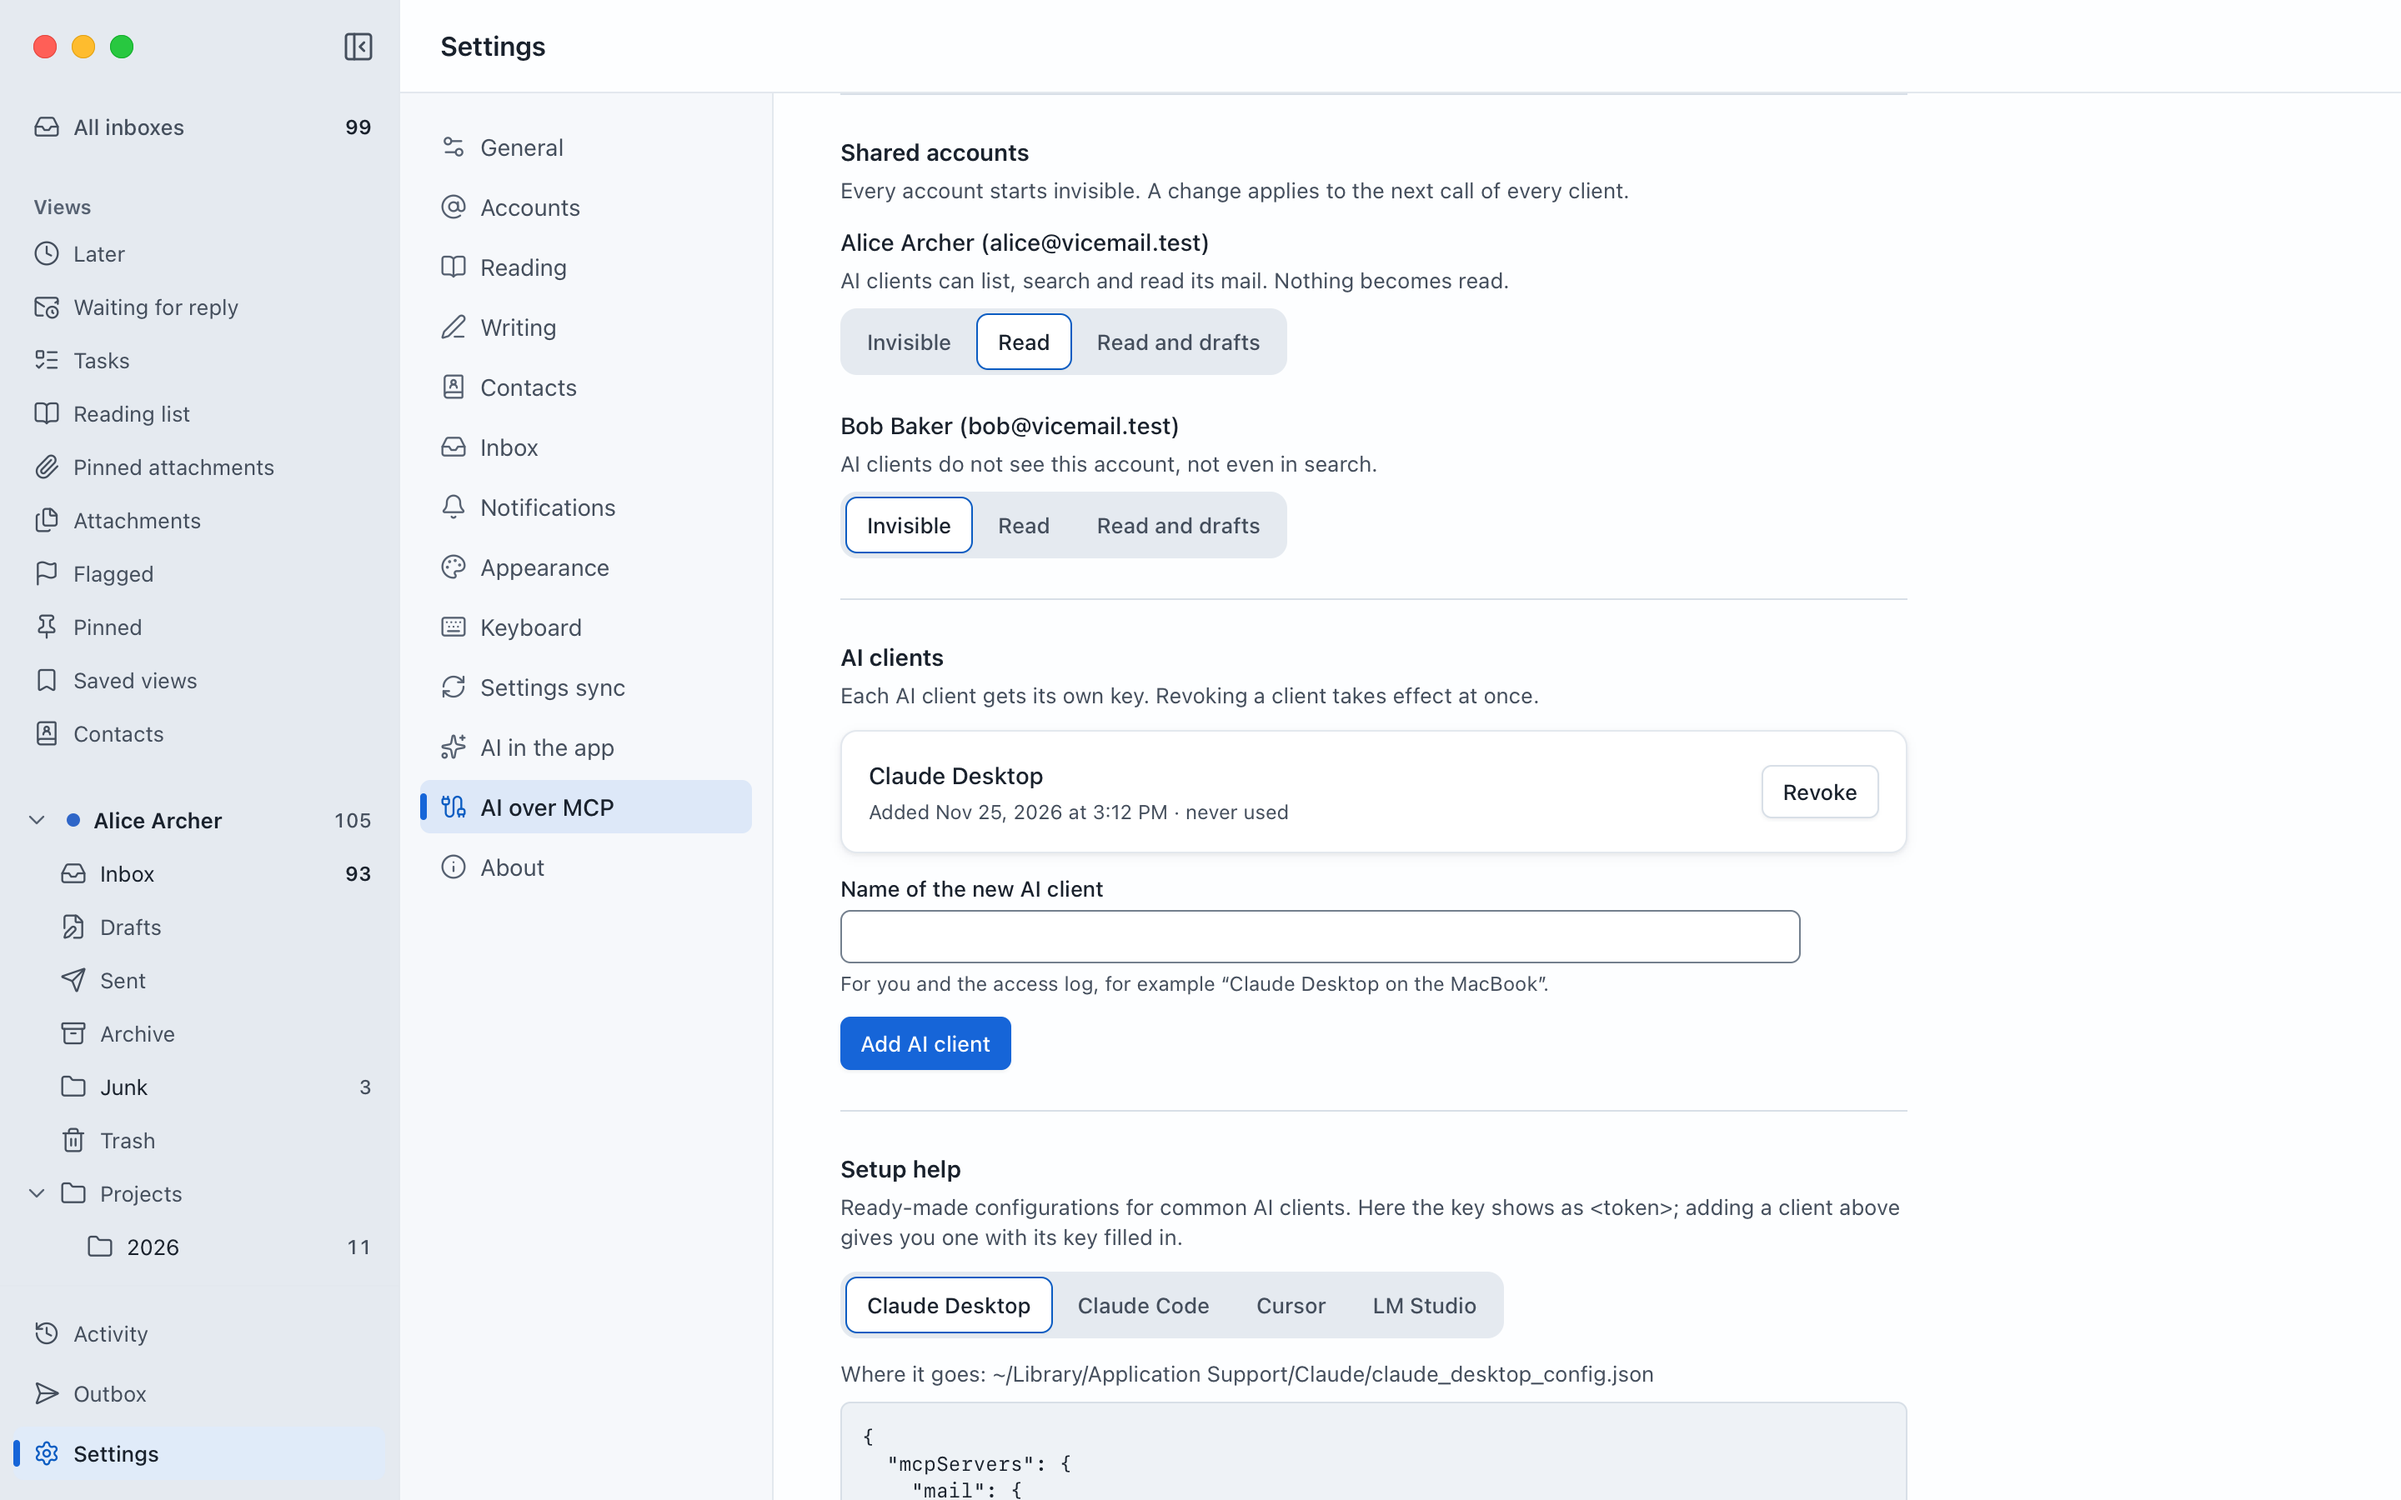
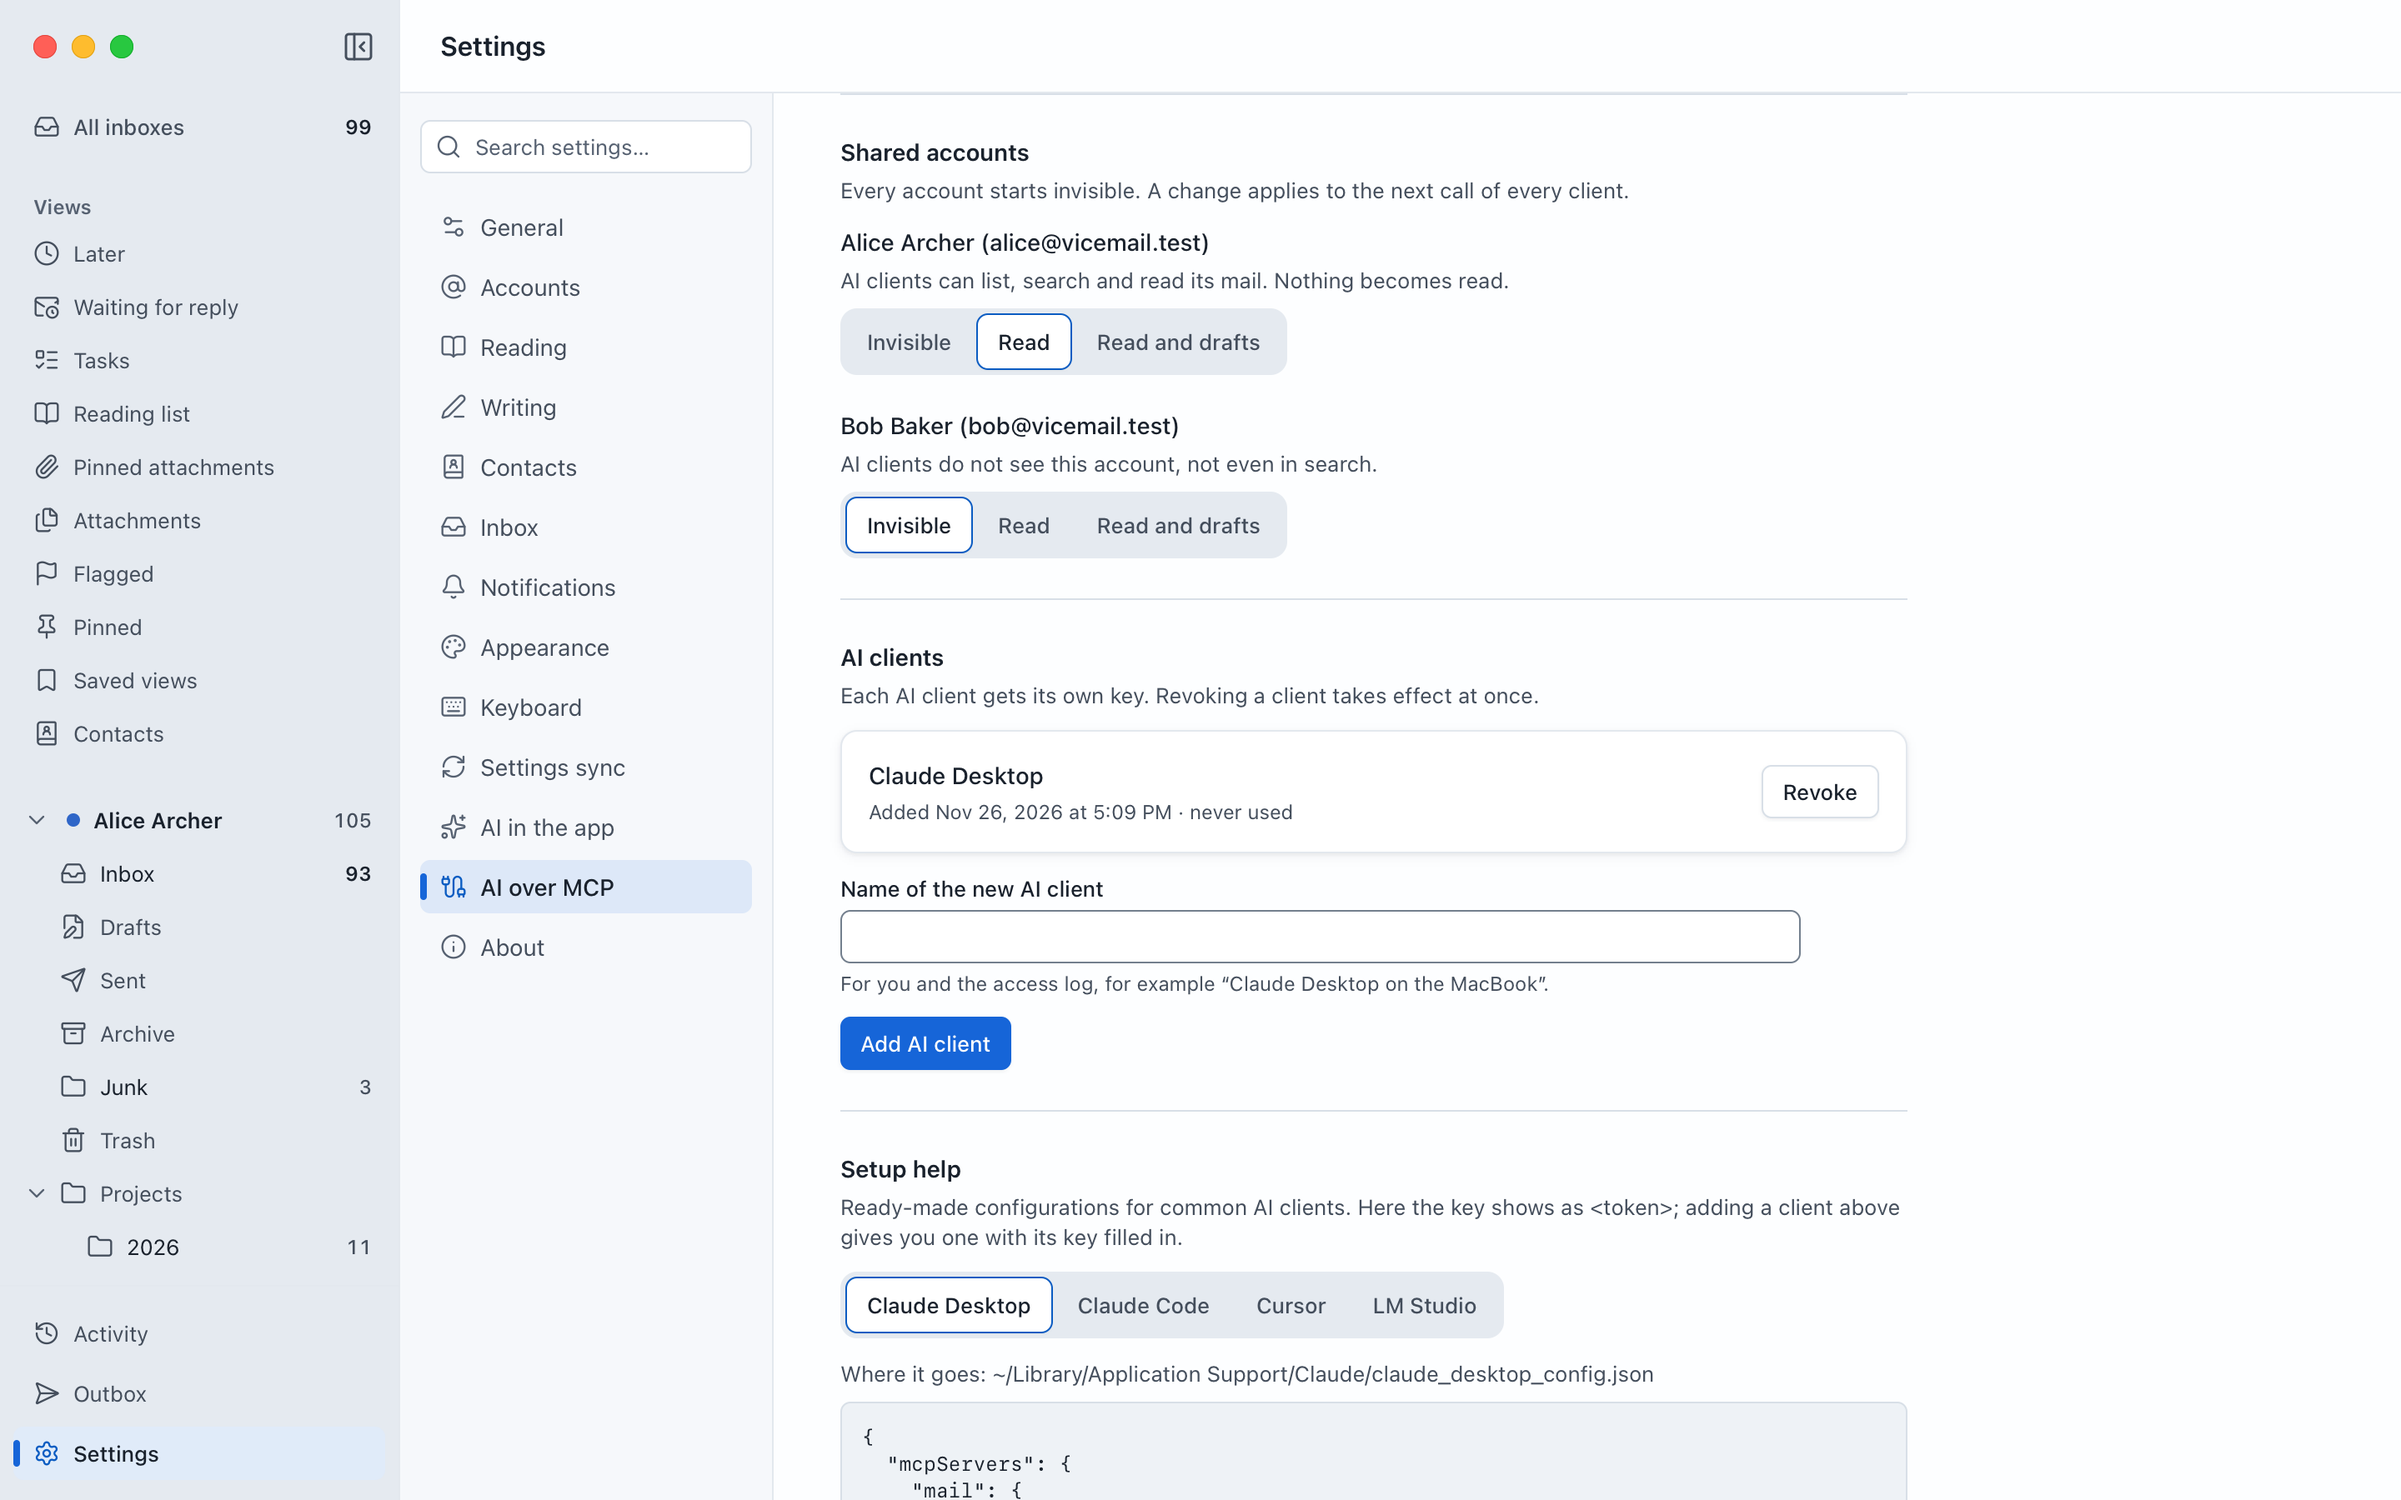
Stage 22 done: results, plan, README pictures for 0.1.3 [skip ci]

Changed region(s): [[0.1562, 0.0933, 0.3125, 0.6533], [0.4688, 0.5289, 0.5312, 0.56]]

diff --git a/docs/stages/22-rueckmeldungen-0-1-2.md b/docs/stages/22-rueckmeldungen-0-1-2.md
@@ -6,7 +6,8 @@ bauen.
 **Anlass:** Test von 0.1.2 am 26.11.2026. Wie in Stufe 21: erst alle Rückmeldungen sammeln,
 gebaut wird erst, wenn der Mensch sagt, dass die Liste vollständig ist.
 
-**Stand:** Liste vollständig („das reicht dann auch erstmal … los bau 0.1.3“, 26.11.2026).
+**Stand:** Fertig am 26.11.2026, ergibt 0.1.3. Liste vollständig („das reicht dann auch erstmal …
+los bau 0.1.3“), danach kamen noch Punkt 11 und 12 dazu.
 Ergibt 0.1.3. Aufteilung: 4+10 (Geheimnisse), 6 (Spamfilter), 5+7 (Suche), 3+8 (Oberfläche),
 danach 1+2 (Konten) und 9 (Windows); je ein Subagent in eigenem Worktree.
 
@@ -190,4 +191,103 @@ Personen melden“, „Ziehen in Finder/Explorer“).
 
 ## Ergebnis
 
-Noch offen; die Liste wird gesammelt.
+Erledigt am 26.11.2026: alle zwölf Punkte, ergibt 0.1.3. Sechs Subagenten in eigenen Worktrees
+(Suche 5+7, Oberfläche 3+8, Geheimnisse 4+10, Spamfilter 6, Windows 9+11, Konten 1+2+12),
+zusammengeführt auf `main`. Entscheidungen 0072 (keine Bilder), 0073 (Einstellungen
+durchsuchen), 0074 (Kontakte in der Suche, Suche im Wort), 0075 (ein Schlüsselbund-Eintrag),
+0076 (Passwörter übernehmen), 0077 (Spamfilter), 0078 (Reihenfolge und Namen der Konten), 0079
+(Windows-11-Optik), 0080 (Ziffern der Zahl am Symbol), 0081 (Ziehen aus jeder Liste). Migrationen
+0028 (keine Kontaktbilder), 0029 (Trigramm-Index), 0031 (Spamfilter), 0032 (Reihenfolge der
+Konten); 0030 blieb frei. Neue Abhängigkeit: keine (skrifa war schon über hayro im Build); neue
+Schrift: Teilmenge von Selawik Semibold (OFL) als „Badge Digits“.
+
+- **1:** Spalte `account.position` (leer bis zur ersten Änderung, die bisherige Reihenfolge
+  bleibt). Ziehen der Kontoüberschrift links, „Nach oben/unten“ im Kontomenü, Alt+Pfeil, Pfeile
+  in Einstellungen → Konten. Überall dieselbe Reihenfolge; im Sync als Feld `position` (jede
+  Änderung vergibt allen Konten neue, höhere Positionen, damit die neuere Reihenfolge als Ganzes
+  gewinnt).
+- **2:** `account.display_name` ist jetzt der Name in den Listen, Doppelklick, F2 oder
+  „Umbenennen“; leer zeigt die Adresse. Nichts Ausgehendes liest ihn mehr (KI-Antworten nehmen den
+  Absendernamen der Identität). Neue Konten starten ohne Listennamen.
+- **3:** Alle Bilder und Initialen entfernt (Liste, Lesebereich, Composer, Kontakte, Popup,
+  schmale Leiste, Einstellungen), dazu die Kontaktbilder aus Stufe 17 samt Befehlen, Hilfsprozess-
+  Modus und Sync-Art (alte Datensätze anderer Geräte werden still ignoriert). Zeilen beginnen mit
+  einer 16-px-Spalte für Ungelesen-Punkt bzw. Kästchen. In gemischten Listen bleibt die
+  Kontobeschriftung (Punkt und Name) auch beim Überfahren sichtbar (ein Punkt vor dem Absender war
+  vom Ungelesen-Punkt nicht zu unterscheiden). Schmale Leiste: Konten als Farbpunkte mit Namen.
+- **4:** Auf macOS ein Tresor-Eintrag in Generationen (`vault`, `vault.2`, …: neu schreiben,
+  zurücklesen, dann ältere löschen). Übernahme der alten Einträge beim Start nach den Namen aus der
+  Datenbank, Rückfall auf alte Einträge beim Lesen. Windows unverändert (ein Eintrag je
+  Geheimnis).
+- **5:** Bis zu drei Kontakte oben in der Suche (Name, Adresse, Domain, auch per Anfang); Auswahl
+  setzt den neuen Filter `contact:`/`kontakt:` (alle Adressen des Kontakts in Von/An/Cc, über alle
+  Konten).
+- **6:** Robinson/Fisher wie SpamBayes, Tokens als 64-Bit-Hashes (keine Wörter aus Mails in der
+  Datenbank), Klasse Gerät, nur der Schalter wird abgeglichen. Greift ab 0,99 und erst nach 50
+  Spam- und 200 anderen Mails. Nie Spam: eigene Adressen, angeschriebene Kontakte, Antworten auf
+  eigene Mails, Absender mit erlaubten Bildern, wichtige Absender. Gemessen am
+  SpamAssassin-Korpus (10-fach Kreuzvalidierung): 0,05 % falsch als Spam, 8,8 % Spam verpasst
+  (`docs/testing/spam-filter.md`).
+- **7:** Zweiter FTS5-Index `message_fts_tri` (Trigramme) über alle Spalten einschließlich Text.
+  Gemessen bei 100.000 Mails: Datenbank 119 → 272 MB, langsamste erste Treffer 20,7 → 29 ms
+  (Ziel 200 ms), Speichern von Bodies 2.213 → 916 je Sekunde. Ab 3 Zeichen findet ein Begriff
+  ohne Anführungszeichen auch Teile von Wörtern.
+- **8:** Suchfeld über der Abschnittsliste der Einstellungen (Cmd/Ctrl+F), Index aus denselben
+  i18n-Schlüsseln, die die Zeilen zeigen; ein Test rendert jeden Abschnitt und meldet jede Zeile,
+  die im Index fehlt.
+- **9:** Mica in der Titelleiste aller Fenster (Windows 11), im Hauptfenster auch hinter Leiste
+  und Ordnerspalte; Liste, Lesebereich, Composer, Menüs bleiben deckend. Rückfall ohne
+  Transparenz, vor Build 22000 und mit Kontrastdesign. Native Fenstertasten (Andock-Leiste von
+  Windows). Kontrasttest gegen hellstes/dunkelstes Mica.
+- **10:** Anfrage mit Festlegung auf den Schlüssel → Herausforderung mit Zufallswert vom
+  gebenden Gerät → Schlüssel offenlegen → sechsstelliger Code aus allen drei (Abweichung vom Plan:
+  ein Code nur aus Schlüssel und Anfrage ließe sich mit etwa einer Million Versuchen erzwingen).
+  Nur Konten mit gleichen Servern auf beiden Geräten (0040), keine OAuth-Tokens, Schreiben bleibt
+  aus, privater Schlüssel nur im Speicher, Einträge laufen nach 15 Minuten ab.
+- **11:** Geprüft: `mail-app.exe` und Installer von 0.1.2 enthalten das blaue Symbol. Ziffern
+  jetzt aus Selawik Semibold mit Hinting in genau der Pixelgröße (eigener Scanline-Rasterizer,
+  gleiche Pixel auf jeder Plattform), Vorschaubilder für 100–200 % angesehen. Der Installer
+  meldet Explorer nach Installation und Update das geänderte Symbol (`SHChangeNotify`, auch für
+  angeheftete Verknüpfungen); mit makensis 3.13 in einem kleinen Rahmen übersetzt, nicht in der
+  Vorlage von Tauri.
+- **12:** Ein Befehl `dropMessages` gruppiert die Zeilen: Zeilen des Zielkontos werden
+  verschoben, andere Konten über Kopieren-dann-Entfernen (0033), Zeilen schon im Ziel bleiben.
+  Ablegen verschiebt ohne Frage, Wahltaste/Strg kopiert; „Verschieben nach“ im Menü fragt weiter.
+  Nur lesende Konten lehnen beim Überfahren mit Begründung ab. Ordner klappen nach 700 ms auf,
+  die Spalte scrollt am Rand. Rückgängig nimmt Verschiebungen innerhalb eines Konto zurück; über
+  Konten nur, solange die Kopie noch nicht auf dem Server ist (sagt die Meldung).
+
+**Geprüft:**
+- `scripts/check.sh` grün auf `fc10011` (alle zwölf Punkte zusammengeführt): 1.665 Rust-Tests,
+  4.707 Vitest, Clippy für macOS und Windows, Lizenzen, Advisories.
+- GitHub-CI auf `ed2d186` (Version 0.1.3): `check` grün auf macOS und auf echtem Windows.
+- Server-Tests gegen den lokalen Testserver auf `ed2d186`: 1.777 grün.
+- Desktop: 43 Spec-Dateien (214 Tests) in drei Gesamtläufen je 42/43; jede Spec-Datei war in
+  mindestens einem Gesamtlauf grün (Ausreißer unten). `stage22-ui` und `spacing` danach einzeln
+  grün, `spacing` zweimal.
+- README-Bilder neu erzeugt (ohne Bilder und Initialen).
+- Vorschaubilder der Zahl am Symbol (100–200 %) und Bildschirmfotos aller Stränge angesehen.
+
+**Ungeprüft:**
+- Alles auf einem echten Windows-PC: Mica, Ziffern der Zahl am Symbol, Symbol nach dem Update,
+  Strg zum Kopieren (Prüfliste 22.1–22.4 in `docs/testing/windows-checklist.md`).
+- Wie oft macOS bei einem echten Update fragt (0.1.2 → 0.1.3 und danach), und ob ein neuer Build
+  Tresor-Einträge eines älteren löschen darf.
+- Passwörter übernehmen zwischen zwei echten Geräten; Sync mit einem Gerät auf 0.1.2.
+- Spamfilter mit echten, deutschsprachigen Postfächern; Release-Build-Zeiten.
+- Die echte Zieh-Geste des Systems (die Desktop-Tests lösen die Drag-Ereignisse in der Seite aus).
+- Ein echtes Update über die App.
+- Wackelige Tests:
+  - `comfort::tests::popup::new_mail_shows_as_popup_cards_by_the_same_rules` scheiterte einmal
+    unter hoher Last (danach 7 von 7 grün).
+  - `spacing.e2e.mjs` fand im dritten Gesamtlauf bei 900×600 das Gespräch nicht aufgeklappt
+    (nach einem Neustart des WebDrivers); einzeln zweimal grün.
+- Behoben während der Prüfung:
+  - `stage22-ui` fand in beiden ersten Gesamtläufen Bobs Mail in „Alle Posteingänge“ nicht:
+    frühere Specs legen kurz vorher neuere Mails ab, die Mail fiel aus den zwölf geprüften
+    Zeilen. Sie ist jetzt die neueste (`18f321d`).
+  - Der Server-Test des Spamfilters ließ Mails im Junk des Testservers liegen und brachte damit
+    die Zählung des IMAP-Ordnertests durcheinander (`a39af7d`).
+
+**Wartet auf:** welche Version auf dem Windows-PC lief (Punkt 11); Test von 0.1.3 auf Mac und
+Windows, zuerst ein Update über die App; Prüfliste 22.1–22.4 auf Windows.

diff --git a/docs/PLAN.md b/docs/PLAN.md
@@ -39,7 +39,7 @@ Im Projektordner eine neue Sitzung öffnen und schreiben:
 | 19 | [Thunderbird-Funktionen](stages/19-thunderbird-funktionen.md) | fertig (0.1.1) | Sortieren, Tabellenansicht, Schnellfilter, Quelltext, Umleiten, Als neu, Kontaktgruppen, vCard/mbox, Übernahme aus Thunderbird |
 | 20 | [Erinnern, Anhänge, Tracker, Speicher](stages/20-erinnern-anhaenge-tracker-speicher.md) | fertig (0.1.1) | Anhang-Erinnerung, Erinnern ohne Antwort, Anhänge-Ansicht, Tracker-Schutz sichtbar, Postfach-Speicher |
 | 21 | [Rückmeldungen zu 0.1.1](stages/21-rueckmeldungen-0-1-1.md) | fertig (0.1.2), Punkt 1 wartet auf den Menschen | Rückmeldungen aus dem Test von 0.1.1; ergibt 0.1.2 |
-| 22 | [Rückmeldungen zu 0.1.2](stages/22-rueckmeldungen-0-1-2.md) | in Arbeit (Liste vollständig seit 26.11.) | Konten verschieben und umbenennen, keine Bilder/Initialen, ein Schlüsselbund-Eintrag, Kontakte in der Suche, Spamfilter, Suche im Wort, Einstellungen durchsuchen, Windows-11-Optik, Passwörter übernehmen; ergibt 0.1.3 |
+| 22 | [Rückmeldungen zu 0.1.2](stages/22-rueckmeldungen-0-1-2.md) | fertig (0.1.3) | Konten verschieben und umbenennen, keine Bilder/Initialen, ein Schlüsselbund-Eintrag, Kontakte in der Suche, Spamfilter, Suche im Wort, Einstellungen durchsuchen, Windows-11-Optik, Passwörter übernehmen; ergibt 0.1.3 |
 | 15 | [Veröffentlichung](stages/15-veroeffentlichung.md) | wartet auf Mensch (alles ohne Veröffentlichung fertig) | öffentliches Repo, signierte Builds, Updates |
 
 Status: `offen`, `in Arbeit`, `wartet auf Mensch`, `fertig`.
@@ -108,6 +108,25 @@ Gilt, wenn der Auftrag lautet, die Stufen nacheinander ohne Begleitung abzuarbei
 - Jede Stufe endet mit grünem `scripts/check.sh` und einem Push.
 
 ## Letzter Lauf
+
+**Lauf vom 26.11.2026 (Version 0.1.3).** Der Mensch testete 0.1.2 und sammelte Rückmeldungen
+und Ideen (Stufe 22: Konten verschieben und umbenennen, keine Bilder, ein Schlüsselbund-Eintrag,
+Kontakte in der Suche, Spamfilter, Suche im Wort, Einstellungen durchsuchen, Windows-11-Optik,
+Passwörter übernehmen; während des Baus noch Taskleisten-Symbol/Zahl unter Windows und Ziehen
+aus jeder Liste). Sechs Subagenten in eigenen Worktrees (Build-Ordner als APFS-Klon, damit die
+Platte reicht); ein Nutzungslimit unterbrach drei davon für einige Stunden. Gesamtprüfung:
+`scripts/check.sh` grün auf `fc10011` (1.665 Rust, 4.707 Vitest), GitHub-CI auf macOS und
+Windows grün auf `ed2d186`, Server-Tests 1.777 grün, Desktop 43 Spec-Dateien (zwei wackelige
+Ausreißer, Stufe 22 „Ergebnis“). 0.1.3 als GitHub-Release „Latest“ (findet sich über die App) und
+als Gitea-Release.
+
+**Wartet auf den Menschen (neu):** Update von 0.1.2 auf 0.1.3 über die App (erster echter
+Test des Updaters; auf dem Mac fragt der Schlüsselbund beim ersten Start ein letztes Mal je alten
+Eintrag); welche Version auf dem Windows-PC lief (Stufe 22, Punkt 11); Prüfliste 22.1–22.4 auf
+Windows (Zahl am Symbol, Symbol nach Update, Mica, Rückfall); Sync zwischen Mac und Windows samt
+„Passwörter übernehmen“.
+
+### Lauf vom 25.11.2026 (0.1.2)
 
 **Lauf vom 25.11.2026 (Version 0.1.2).** Der Mensch testete 0.1.1 und sammelte zehn
 Rückmeldungen (Stufe 21), dann „ok das ist es erstmal build“. Vier Subagenten in eigenen
